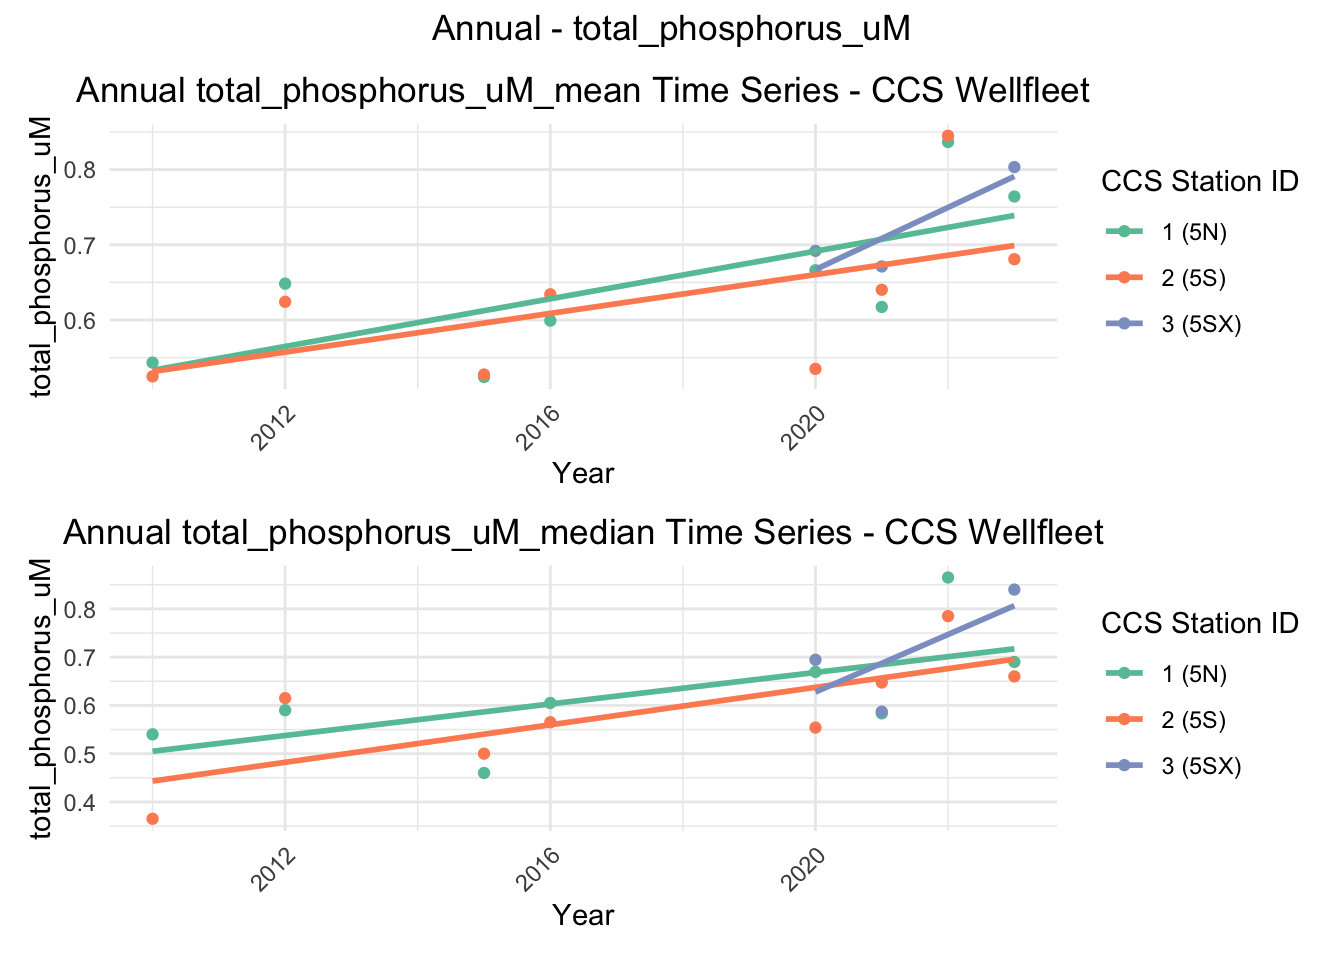
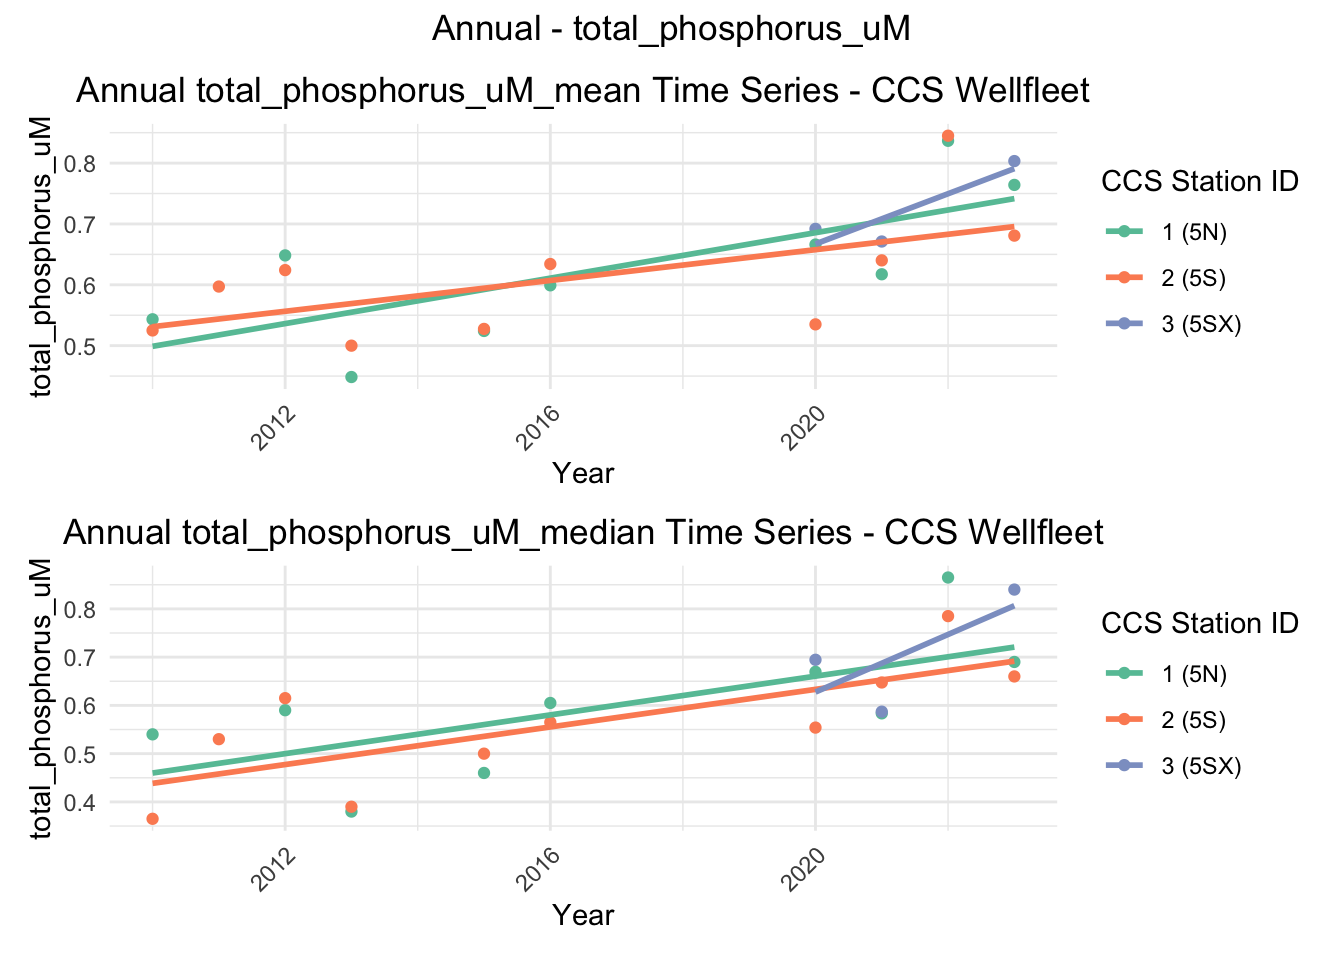
Updated CCS data filtering to average values in months with multiple measurements

diff --git a/quarto_docs/ccs_stations.html b/quarto_docs/ccs_stations.html
@@ -222,37 +222,40 @@ pre > code.sourceCode > span > a:first-child::before { text-decoration: underlin
 <div class="cell">
 <details open="" class="code-fold">
 <summary>Code</summary>
-<div class="sourceCode cell-code" id="cb4"><pre class="sourceCode r code-with-copy"><code class="sourceCode r"><span id="cb4-1"><a href="#cb4-1" aria-hidden="true" tabindex="-1"></a><span class="co"># </span><span class="al">NOTE</span><span class="co"> - For each station, the following block only includes years with exactly one</span></span>
-<span id="cb4-2"><a href="#cb4-2" aria-hidden="true" tabindex="-1"></a><span class="co"># measurement per month (no more no less). A few years have months with more than one</span></span>
-<span id="cb4-3"><a href="#cb4-3" aria-hidden="true" tabindex="-1"></a><span class="co"># measurement, which could be included if only one of those measurements is selected.</span></span>
-<span id="cb4-4"><a href="#cb4-4" aria-hidden="true" tabindex="-1"></a></span>
-<span id="cb4-5"><a href="#cb4-5" aria-hidden="true" tabindex="-1"></a>ccs_wellfleet_full_years <span class="ot">&lt;-</span> ccs_data_wellfleet <span class="sc">|&gt;</span></span>
-<span id="cb4-6"><a href="#cb4-6" aria-hidden="true" tabindex="-1"></a>  <span class="co"># Count how many measurements per station, year, and month</span></span>
-<span id="cb4-7"><a href="#cb4-7" aria-hidden="true" tabindex="-1"></a>  <span class="fu">group_by</span>(internal_station_id, year_collected, month) <span class="sc">|&gt;</span></span>
-<span id="cb4-8"><a href="#cb4-8" aria-hidden="true" tabindex="-1"></a>  <span class="fu">summarize</span>(<span class="at">n_measurements =</span> <span class="fu">n</span>(), <span class="at">.groups =</span> <span class="st">"drop"</span>) <span class="sc">|&gt;</span></span>
-<span id="cb4-9"><a href="#cb4-9" aria-hidden="true" tabindex="-1"></a>  <span class="co"># For each station and year, check how many months had exactly one measurement</span></span>
-<span id="cb4-10"><a href="#cb4-10" aria-hidden="true" tabindex="-1"></a>  <span class="fu">group_by</span>(internal_station_id, year_collected) <span class="sc">|&gt;</span></span>
-<span id="cb4-11"><a href="#cb4-11" aria-hidden="true" tabindex="-1"></a>  <span class="fu">summarize</span>(<span class="at">months_with_one_measurement =</span> <span class="fu">sum</span>(n_measurements <span class="sc">==</span> <span class="dv">1</span>), <span class="at">.groups =</span> <span class="st">"drop"</span>) <span class="sc">|&gt;</span></span>
-<span id="cb4-12"><a href="#cb4-12" aria-hidden="true" tabindex="-1"></a>  <span class="co"># Keep only station-years with exactly one measurement per month (12 months, no extras)</span></span>
-<span id="cb4-13"><a href="#cb4-13" aria-hidden="true" tabindex="-1"></a>  <span class="fu">filter</span>(months_with_one_measurement <span class="sc">==</span> <span class="dv">12</span>) <span class="sc">|&gt;</span></span>
-<span id="cb4-14"><a href="#cb4-14" aria-hidden="true" tabindex="-1"></a>  <span class="fu">select</span>(internal_station_id, year_collected) <span class="sc">|&gt;</span></span>
-<span id="cb4-15"><a href="#cb4-15" aria-hidden="true" tabindex="-1"></a>  <span class="co"># Join back to original data to filter only good station-years, removing id column</span></span>
-<span id="cb4-16"><a href="#cb4-16" aria-hidden="true" tabindex="-1"></a>  <span class="fu">inner_join</span>(ccs_data_wellfleet, <span class="at">by =</span> <span class="fu">c</span>(<span class="st">"internal_station_id"</span>, <span class="st">"year_collected"</span>))</span>
-<span id="cb4-17"><a href="#cb4-17" aria-hidden="true" tabindex="-1"></a></span>
-<span id="cb4-18"><a href="#cb4-18" aria-hidden="true" tabindex="-1"></a></span>
-<span id="cb4-19"><a href="#cb4-19" aria-hidden="true" tabindex="-1"></a><span class="co"># Calculate annual mean &amp; median for all water quality variables</span></span>
-<span id="cb4-20"><a href="#cb4-20" aria-hidden="true" tabindex="-1"></a>ccs_wellfleet_annual <span class="ot">&lt;-</span> ccs_wellfleet_full_years <span class="sc">|&gt;</span> </span>
-<span id="cb4-21"><a href="#cb4-21" aria-hidden="true" tabindex="-1"></a>  <span class="fu">group_by</span>(internal_station_id, year_collected) <span class="sc">|&gt;</span> </span>
-<span id="cb4-22"><a href="#cb4-22" aria-hidden="true" tabindex="-1"></a>  <span class="fu">summarize</span>(</span>
-<span id="cb4-23"><a href="#cb4-23" aria-hidden="true" tabindex="-1"></a>    <span class="fu">across</span>(</span>
-<span id="cb4-24"><a href="#cb4-24" aria-hidden="true" tabindex="-1"></a>      <span class="fu">all_of</span>(wq_variables),</span>
-<span id="cb4-25"><a href="#cb4-25" aria-hidden="true" tabindex="-1"></a>      <span class="fu">list</span>(</span>
-<span id="cb4-26"><a href="#cb4-26" aria-hidden="true" tabindex="-1"></a>        <span class="at">mean =</span> <span class="cf">function</span>(x) <span class="cf">if</span> (<span class="fu">any</span>(<span class="fu">is.na</span>(x))) <span class="cn">NA_real_</span> <span class="cf">else</span> <span class="fu">mean</span>(x),</span>
-<span id="cb4-27"><a href="#cb4-27" aria-hidden="true" tabindex="-1"></a>        <span class="at">median =</span> <span class="cf">function</span>(x) <span class="cf">if</span> (<span class="fu">any</span>(<span class="fu">is.na</span>(x))) <span class="cn">NA_real_</span> <span class="cf">else</span> <span class="fu">median</span>(x)</span>
-<span id="cb4-28"><a href="#cb4-28" aria-hidden="true" tabindex="-1"></a>      )</span>
-<span id="cb4-29"><a href="#cb4-29" aria-hidden="true" tabindex="-1"></a>    ),</span>
-<span id="cb4-30"><a href="#cb4-30" aria-hidden="true" tabindex="-1"></a>    <span class="at">.groups =</span> <span class="st">"drop"</span></span>
-<span id="cb4-31"><a href="#cb4-31" aria-hidden="true" tabindex="-1"></a>  )</span></code><button title="Copy to Clipboard" class="code-copy-button"><i class="bi"></i></button></pre></div>
+<div class="sourceCode cell-code" id="cb4"><pre class="sourceCode r code-with-copy"><code class="sourceCode r"><span id="cb4-1"><a href="#cb4-1" aria-hidden="true" tabindex="-1"></a><span class="co"># </span><span class="al">NOTE</span><span class="co"> - For each station, the following block only includes years with a full 12 months of data</span></span>
+<span id="cb4-2"><a href="#cb4-2" aria-hidden="true" tabindex="-1"></a><span class="co">#      - Many years have 11 months of data (and some 10 or fewer), which could be included</span></span>
+<span id="cb4-3"><a href="#cb4-3" aria-hidden="true" tabindex="-1"></a></span>
+<span id="cb4-4"><a href="#cb4-4" aria-hidden="true" tabindex="-1"></a>ccs_wellfleet_full_years <span class="ot">&lt;-</span> ccs_data_wellfleet <span class="sc">|&gt;</span></span>
+<span id="cb4-5"><a href="#cb4-5" aria-hidden="true" tabindex="-1"></a>  <span class="co"># Count how many measurements per station, year, and month</span></span>
+<span id="cb4-6"><a href="#cb4-6" aria-hidden="true" tabindex="-1"></a>  <span class="fu">group_by</span>(internal_station_id, year_collected, month) <span class="sc">|&gt;</span></span>
+<span id="cb4-7"><a href="#cb4-7" aria-hidden="true" tabindex="-1"></a>  <span class="fu">summarize</span>(<span class="at">n_measurements =</span> <span class="fu">n</span>(), </span>
+<span id="cb4-8"><a href="#cb4-8" aria-hidden="true" tabindex="-1"></a>            <span class="co"># average across each month to reduce months with multiple measurements to one average</span></span>
+<span id="cb4-9"><a href="#cb4-9" aria-hidden="true" tabindex="-1"></a>            <span class="fu">across</span>(<span class="fu">where</span>(is.numeric), <span class="sc">~</span> <span class="fu">mean</span>(.x, <span class="at">na.rm =</span> <span class="cn">TRUE</span>)),</span>
+<span id="cb4-10"><a href="#cb4-10" aria-hidden="true" tabindex="-1"></a>            <span class="at">.groups =</span> <span class="st">"drop"</span></span>
+<span id="cb4-11"><a href="#cb4-11" aria-hidden="true" tabindex="-1"></a>            ) <span class="sc">|&gt;</span></span>
+<span id="cb4-12"><a href="#cb4-12" aria-hidden="true" tabindex="-1"></a>  <span class="co"># For each station and year, check how many months had data</span></span>
+<span id="cb4-13"><a href="#cb4-13" aria-hidden="true" tabindex="-1"></a>  <span class="fu">group_by</span>(internal_station_id, year_collected) <span class="sc">|&gt;</span></span>
+<span id="cb4-14"><a href="#cb4-14" aria-hidden="true" tabindex="-1"></a>  <span class="fu">summarize</span>(<span class="at">n_months =</span> <span class="fu">n</span>(), <span class="at">.groups =</span> <span class="st">"drop"</span>) <span class="sc">|&gt;</span></span>
+<span id="cb4-15"><a href="#cb4-15" aria-hidden="true" tabindex="-1"></a>  <span class="co"># Keep only station-years with exactly 12 months of measurements</span></span>
+<span id="cb4-16"><a href="#cb4-16" aria-hidden="true" tabindex="-1"></a>  <span class="fu">filter</span>(n_months <span class="sc">==</span> <span class="dv">12</span>) <span class="sc">|&gt;</span></span>
+<span id="cb4-17"><a href="#cb4-17" aria-hidden="true" tabindex="-1"></a>  <span class="fu">select</span>(internal_station_id, year_collected) <span class="sc">|&gt;</span></span>
+<span id="cb4-18"><a href="#cb4-18" aria-hidden="true" tabindex="-1"></a>  <span class="co"># Join back to original data to filter only good station-years, removing id column</span></span>
+<span id="cb4-19"><a href="#cb4-19" aria-hidden="true" tabindex="-1"></a>  <span class="fu">inner_join</span>(ccs_data_wellfleet, <span class="at">by =</span> <span class="fu">c</span>(<span class="st">"internal_station_id"</span>, <span class="st">"year_collected"</span>))</span>
+<span id="cb4-20"><a href="#cb4-20" aria-hidden="true" tabindex="-1"></a></span>
+<span id="cb4-21"><a href="#cb4-21" aria-hidden="true" tabindex="-1"></a></span>
+<span id="cb4-22"><a href="#cb4-22" aria-hidden="true" tabindex="-1"></a><span class="co"># Calculate annual mean &amp; median for all water quality variables</span></span>
+<span id="cb4-23"><a href="#cb4-23" aria-hidden="true" tabindex="-1"></a>ccs_wellfleet_annual <span class="ot">&lt;-</span> ccs_wellfleet_full_years <span class="sc">|&gt;</span> </span>
+<span id="cb4-24"><a href="#cb4-24" aria-hidden="true" tabindex="-1"></a>  <span class="fu">group_by</span>(internal_station_id, year_collected) <span class="sc">|&gt;</span> </span>
+<span id="cb4-25"><a href="#cb4-25" aria-hidden="true" tabindex="-1"></a>  <span class="fu">summarize</span>(</span>
+<span id="cb4-26"><a href="#cb4-26" aria-hidden="true" tabindex="-1"></a>    <span class="fu">across</span>(</span>
+<span id="cb4-27"><a href="#cb4-27" aria-hidden="true" tabindex="-1"></a>      <span class="fu">all_of</span>(wq_variables),</span>
+<span id="cb4-28"><a href="#cb4-28" aria-hidden="true" tabindex="-1"></a>      <span class="fu">list</span>(</span>
+<span id="cb4-29"><a href="#cb4-29" aria-hidden="true" tabindex="-1"></a>        <span class="at">mean =</span> <span class="cf">function</span>(x) <span class="cf">if</span> (<span class="fu">any</span>(<span class="fu">is.na</span>(x))) <span class="cn">NA_real_</span> <span class="cf">else</span> <span class="fu">mean</span>(x),</span>
+<span id="cb4-30"><a href="#cb4-30" aria-hidden="true" tabindex="-1"></a>        <span class="at">median =</span> <span class="cf">function</span>(x) <span class="cf">if</span> (<span class="fu">any</span>(<span class="fu">is.na</span>(x))) <span class="cn">NA_real_</span> <span class="cf">else</span> <span class="fu">median</span>(x)</span>
+<span id="cb4-31"><a href="#cb4-31" aria-hidden="true" tabindex="-1"></a>      )</span>
+<span id="cb4-32"><a href="#cb4-32" aria-hidden="true" tabindex="-1"></a>    ),</span>
+<span id="cb4-33"><a href="#cb4-33" aria-hidden="true" tabindex="-1"></a>    <span class="at">.groups =</span> <span class="st">"drop"</span></span>
+<span id="cb4-34"><a href="#cb4-34" aria-hidden="true" tabindex="-1"></a>  )</span></code><button title="Copy to Clipboard" class="code-copy-button"><i class="bi"></i></button></pre></div>
 </details>
 </div>
 </section>
